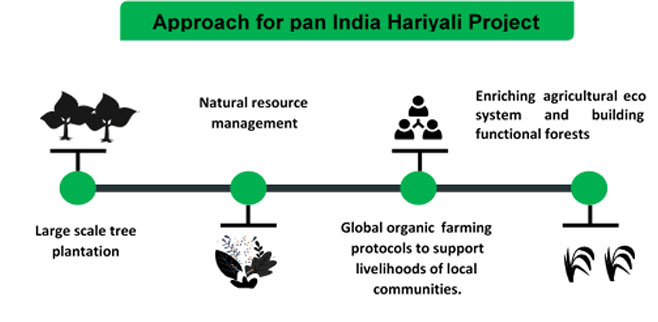
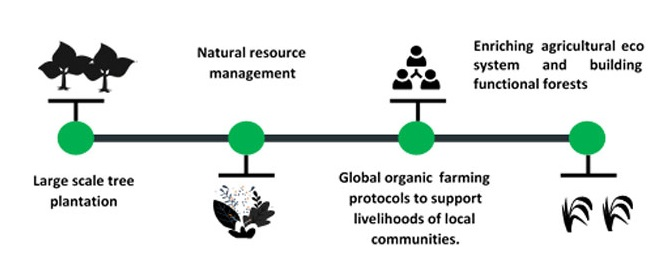
UI Chnages for what we do page

diff --git a/src/components/master/otherMenu/WhatWeDo.js b/src/components/master/otherMenu/WhatWeDo.js
@@ -25,55 +25,24 @@ function WhatWeDo() {
       </section>
       <div className="pt100">
         {/* <img src={planting} alt="planting" className="imgwidth100" /> */}
-        <div className="section bggray">
-          <Container className="pt30">
-            <Row className="justify-content-between  padding30tb contact-form-wrap">
-              <div className="otherbotmborder"><div className="otherpages-heading">What We Do</div>
-              </div>
-              <div className="otherpages-subheading textupp">Approach for pan India Hariyali Project</div>
+        <div className="section bg-green">
+          <Container className="pv-75">
+            <Row className="justify-content-between align-items-center">
+              <div className="col-12 col-md-6 feature-description">
+              <h2 className="">Approach for pan India Hariyali Project</h2>
               <p>Each year, we follow a systematic planting process.
-                <br />
+                
                 For Monsoon plantation, this process starts in September of the previous financial year, giving our team 9-10 months of lead time to select and nurture the saplings so that the survival rates after plantation are high. Similarly, for winter plantation, the process starts by September and saplings are planted from November to January of the same financial year.</p>
-              <div className="col-12">
-
-                <div className="whatwe-approachdiv">
-                  {/* <Row>
-                    <div className="col-3 "><div className="whatwe-approach">
-                  <p>Large scale tree plantation</p>
-                  </div>
-                  <div className="whatwe-approachicon"><FaTree /></div>
-                  </div>
-                  <div className="col-3 "><div className="whatwe-approach">
-                  <p>Natural resource management</p>
-                  </div>
-                  <div className="whatwe-approachicon"><FaCannabis /></div>
-                  </div>
-                  <div className="col-3 "><div className="whatwe-approach">
-                  <p>Global organic farming protocols to support livelihoods of local communities</p>
-                  </div>
-                  <div className="whatwe-approachicon"><FaUsers /></div>
-                  </div>
-                  <div className="col-3 "><div className="whatwe-approach">
-                  <p>Enriching agricultural eco system and building finctional forests</p>
-                  </div>
-                  <div className="whatwe-approachicon"><FaCogs /></div>
-                  </div>
-                    </Row> */}
-                  <img src={whatwe1} alt="what we do" />
-                </div>
-
-                {/* <p>
-                  <br />This process starts in the September of previous year, giving our teams a total of 10 months for timely planting in June, year on year. </p>
-                <div className="whatwe-heading">
-                  The steps below summarise the said process:
-                </div>
-                <div className="whatwedo2img">
-                  <img src={whatwe2} alt="what we do" />
-                </div> */}
+              </div>
+              <div className="col-12 col-md-5">
+                <div className="">
+                <img src={whatwe1} alt="what we do" />
+                </div>                  
               </div>
             </Row>
           </Container>
-          <div className="container-xxxl">
+          </div>
+          <div className="container-xxxl mt-5">
             <h2 className="sub-title text-center">Planting Process</h2>
             <div className="row">
               <div className="col-12 col-md-6">
@@ -148,7 +117,7 @@ function WhatWeDo() {
             </div>
             <img scr={step1Img} alt="" width={100}/>
           </div>
-        </div>
+        
       </div>
     </>
   );

diff --git a/src/assets/css/style.css b/src/assets/css/style.css
@@ -2089,6 +2089,7 @@ tr td input {
   /* transform: scale(0.9); */
 }
 .tree-features h4{
+  font-size: 1.25rem;
   line-height: normal;
 }
 .impact-wrapper{
@@ -2101,33 +2102,13 @@ tr td input {
   margin-top: -5rem;
   padding: 1.5rem 0;
 }
-.tree-features:before{
-  /* z-index: 0;
-  content: '';
-  width: 100%;
-  height: 100%;
-  border-radius: 50%;
-  border: 2px solid;
-  position: absolute;
-  top: 0;
-  left: 0;
-  transition: all .5s ease-out;
-  box-shadow:inset 0 0 20px 0 green;
-  border: 4px solid #fff;
-  opacity: 0; */
-}
 .tree-features p{
-    font-size: 2.25rem;
-    font-weight: 600;
-  /* background: #23aa4a;*/
+  font-size: 2rem;
+  font-weight: 600;
   color: #23aa4a;
   border-radius: 20px;
   padding: 5px 15px; 
   margin-bottom: 0;
-}
-.tree-features:hover:before{
-  /* opacity: 1;
-  transform: scale(1.2); */
 }
 .icon-block:hover:before{
   transform: scale(1.1);

diff --git a/src/components/master/otherMenu/WhySupportUs.js b/src/components/master/otherMenu/WhySupportUs.js
@@ -224,7 +224,7 @@ function WhySupportUs() {
       <div className="container">
         <h3 className="text-center sub-title">Testimonials</h3>
         <div className="row">
-          <div className="col-12 col-md-6">
+          <div className="col-12 col-md-6 text-center">
             <iframe
               width="560"
               height="315"
@@ -235,7 +235,7 @@ function WhySupportUs() {
               allowfullscreen
             ></iframe>
           </div>
-          <div className="col-12 col-md-6">
+          <div className="col-12 col-md-6 text-center">
             <iframe
               width="560"
               height="315"
